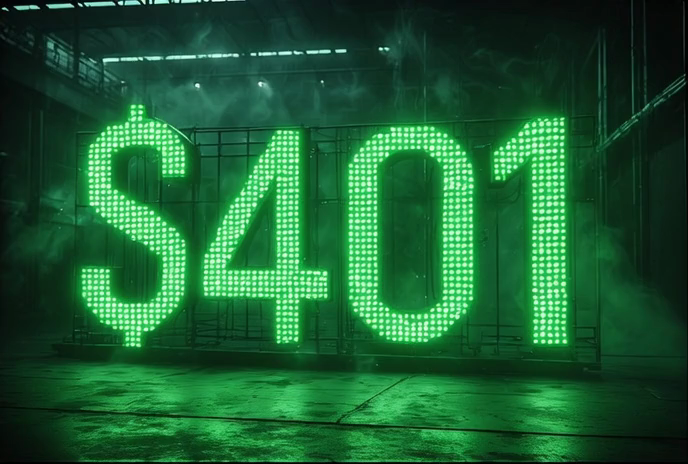
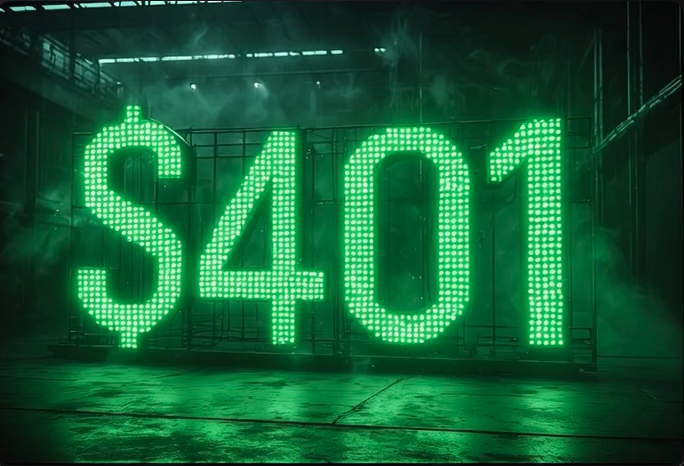
fix: OG image for social sharing — use new $401 LED still image
Add explicit openGraph.images and twitter.images to metadata.
Add twitter-image.png for Twitter/X card support.

diff --git a/app/layout.tsx b/app/layout.tsx
@@ -39,6 +39,14 @@ export const metadata: Metadata = {
     siteName: "$401 Protocol",
     locale: "en_US",
     type: "website",
+    images: [
+      {
+        url: "https://path401.com/401-OG.png",
+        width: 684,
+        height: 466,
+        alt: "$401 — Decentralised Identity Protocol",
+      },
+    ],
     videos: [
       {
         url: "https://path401.com/401-GREEN-1.mp4",
@@ -54,6 +62,7 @@ export const metadata: Metadata = {
     description: "Decentralised identity protocol. Prove who you are without giving yourself away.",
     creator: "@b0ase",
     site: "@b0ase",
+    images: ["https://path401.com/401-OG.png"],
   },
   robots: {
     index: true,
